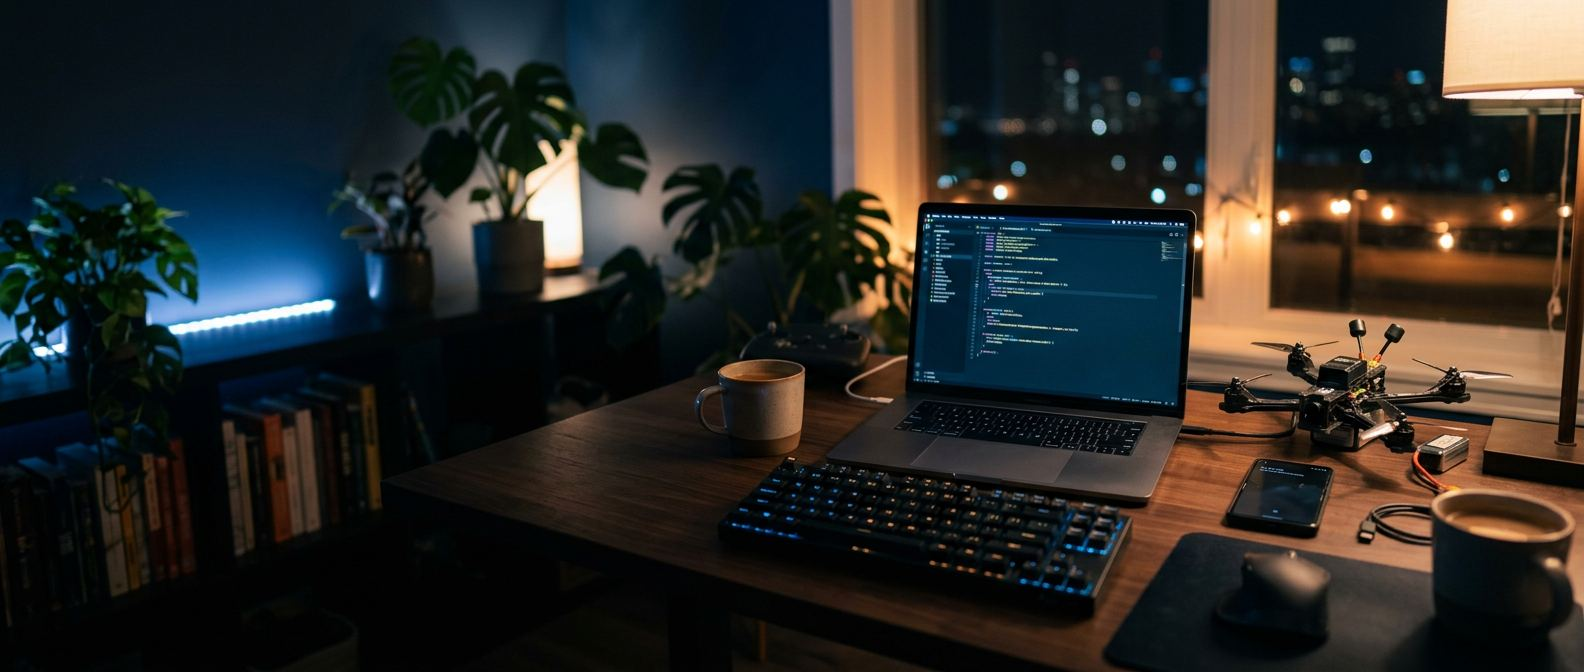
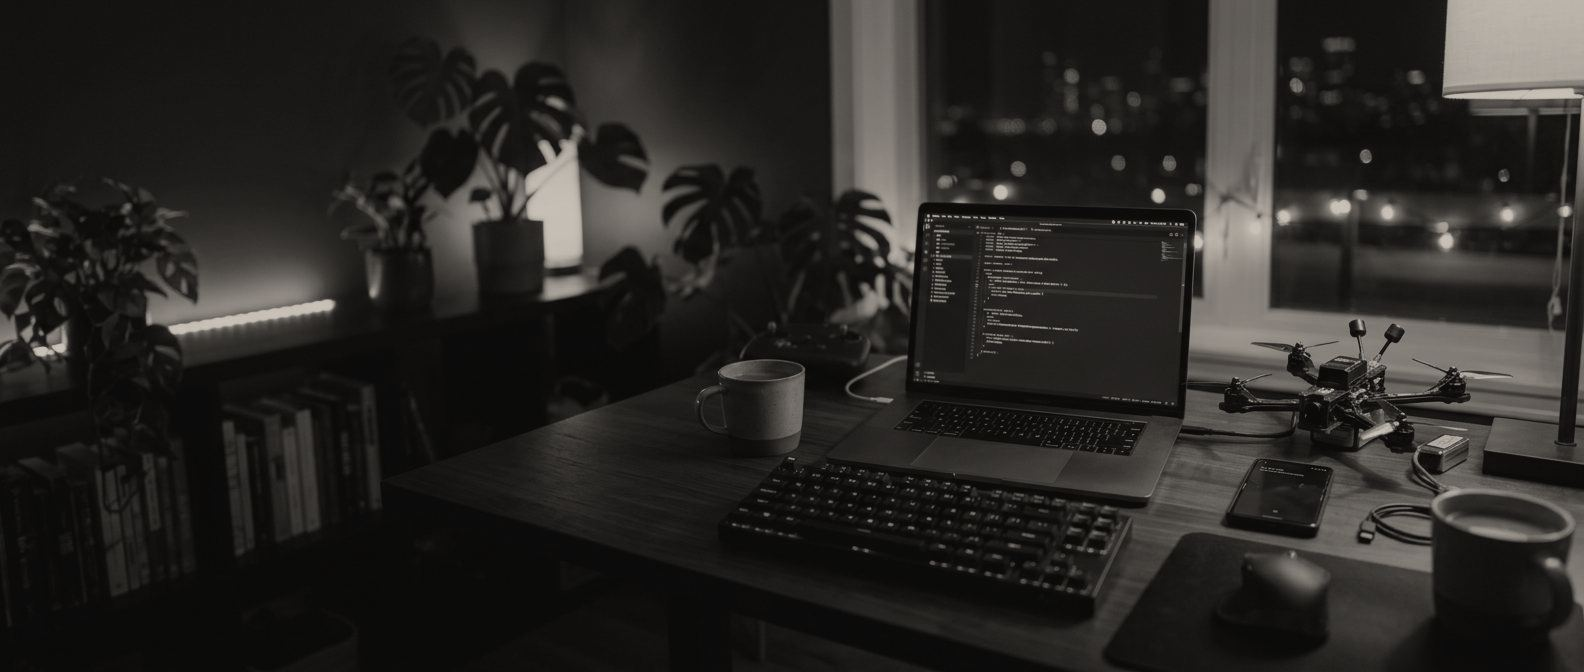
Neutral palette, remove blue gradient

diff --git a/style.css b/style.css
@@ -1,18 +1,18 @@
-:root{--bg:#0b0f17;--panel:#121826;--line:#1f2937;--text:#e5e7eb;--muted:#9ca3af;--accent:#38bdf8}
+:root{--bg:#111111;--panel:#181818;--line:#2a2a2a;--text:#ededed;--muted:#a3a3a3;--accent:#ededed}
 *{box-sizing:border-box;margin:0;padding:0}
 html{scroll-behavior:smooth}
 body{font-family:system-ui,-apple-system,"Segoe UI",Roboto,sans-serif;background:var(--bg);color:var(--text);line-height:1.6}
 a{color:var(--accent);text-decoration:none}
-nav{position:sticky;top:0;z-index:10;display:flex;justify-content:space-between;align-items:center;padding:14px 6vw;background:rgba(11,15,23,.85);backdrop-filter:blur(8px);border-bottom:1px solid var(--line)}
+nav{position:sticky;top:0;z-index:10;display:flex;justify-content:space-between;align-items:center;padding:14px 6vw;background:rgba(17,17,17,.9);backdrop-filter:blur(8px);border-bottom:1px solid var(--line)}
 nav .brand{color:var(--text);font-weight:700}
 nav div a{margin-left:22px;color:var(--muted);font-size:.95rem}
 nav div a:hover{color:var(--text)}
-.hero{min-height:78vh;display:flex;align-items:flex-end;background:linear-gradient(90deg,rgba(11,15,23,.92) 0%,rgba(11,15,23,.55) 55%,rgba(11,15,23,.2) 100%),url(assets/hero.jpg) center/cover no-repeat}
+.hero{min-height:78vh;display:flex;align-items:flex-end;background:#111 url(assets/hero.jpg) center/cover no-repeat;position:relative}.hero::before{content:"";position:absolute;inset:0;background:rgba(17,17,17,.72)}.hero-inner{position:relative}
 .hero-inner{padding:0 6vw 10vh;max-width:760px}
 .eyebrow{color:var(--accent);text-transform:uppercase;letter-spacing:.15em;font-size:.8rem;margin-bottom:10px}
 h1{font-size:clamp(2.4rem,6vw,4rem);line-height:1.1;margin-bottom:16px}
 .lead{color:#cbd5e1;font-size:1.15rem;margin-bottom:28px}
-.btn{display:inline-block;background:var(--accent);color:#04121c;font-weight:600;padding:12px 22px;border-radius:8px}
+.btn{display:inline-block;background:var(--accent);color:#111;font-weight:600;padding:12px 22px;border-radius:8px}
 .btn:hover{filter:brightness(1.1)}
 main{max-width:1120px;margin:0 auto;padding:0 6vw}
 section{padding:72px 0;border-bottom:1px solid var(--line)}
@@ -22,7 +22,7 @@ h2{font-size:1.8rem;margin-bottom:24px}
 .skill,.card{background:var(--panel);border:1px solid var(--line);border-radius:12px;padding:20px}
 .skill h4{margin-bottom:10px}
 .tags{display:flex;flex-wrap:wrap;gap:6px}
-.tag{font-size:.78rem;background:#0f2533;color:#7dd3fc;border:1px solid #164e63;padding:3px 9px;border-radius:999px}
+.tag{font-size:.78rem;background:transparent;color:#cfcfcf;border:1px solid #333;padding:3px 8px;border-radius:4px}
 .grid{display:grid;grid-template-columns:repeat(auto-fill,minmax(320px,1fr));gap:20px}
 .card{display:flex;flex-direction:column;gap:12px;transition:transform .15s,border-color .15s}
 .card:hover{transform:translateY(-3px);border-color:#334155}

diff --git a/index.html b/index.html
@@ -2,7 +2,7 @@
 <html lang="en"><head><meta charset="utf-8"><meta name="viewport" content="width=device-width,initial-scale=1">
 <title>Partha Sarathi | Developer Portfolio</title>
 <meta name="description" content="Partha Sarathi: engineering student building Android apps, full-stack web platforms and real-time systems.">
-<link rel="icon" href="favicon.svg" type="image/svg+xml"><meta property="og:title" content="Partha Sarathi | Developer Portfolio"><meta property="og:image" content="assets/hero.jpg"><link rel="stylesheet" href="style.css?v=4"></head><body>
+<link rel="icon" href="favicon.svg" type="image/svg+xml"><meta property="og:title" content="Partha Sarathi | Developer Portfolio"><meta property="og:image" content="assets/hero.jpg"><link rel="stylesheet" href="style.css?v=5"></head><body>
 <nav><a class="brand" href="#">Partha Sarathi</a><button class="menu-btn" aria-label="Open menu" aria-expanded="false" onclick="var n=document.getElementById('nl');n.classList.toggle('open');this.setAttribute('aria-expanded',n.classList.contains('open'))">&#9776;</button><div id="nl" onclick="this.classList.remove('open')"><a href="#about">About</a><a href="#skills">Skills</a><a href="#projects">Projects</a><a href="#contact">Contact</a></div></nav>
 <header class="hero"><div class="hero-inner"><p class="eyebrow">Developer Portfolio</p><h1>Partha Sarathi</h1>
 <p class="lead">Engineering student at Adhiyamaan College of Engineering, Hosur. I build Android apps, full-stack web platforms and real-time systems.</p>
